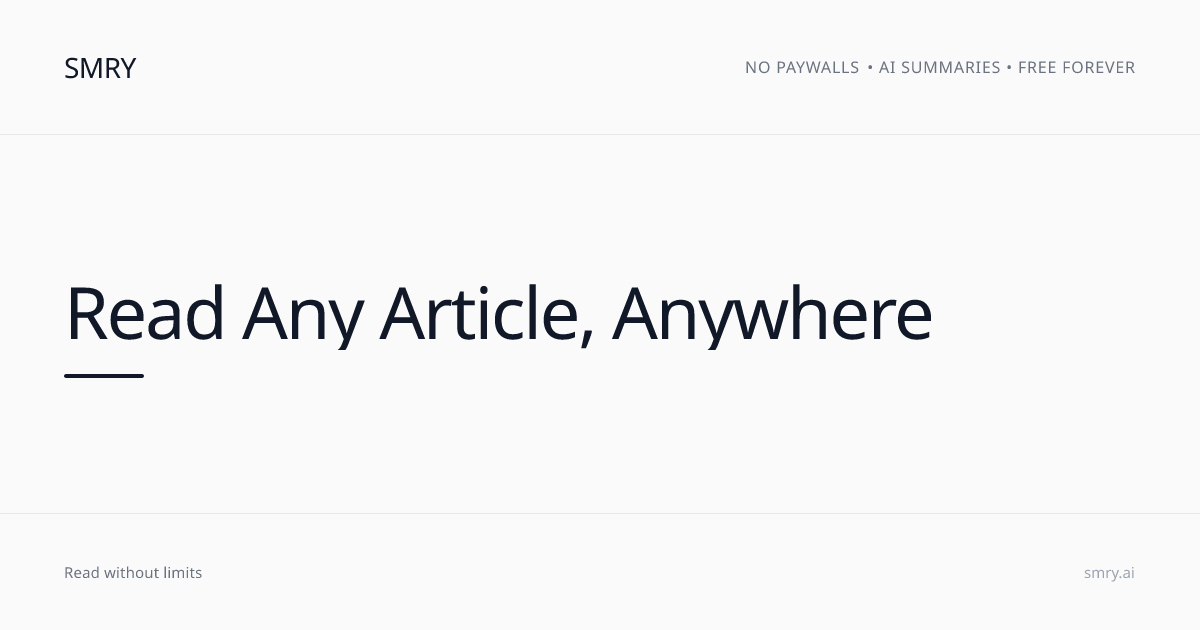
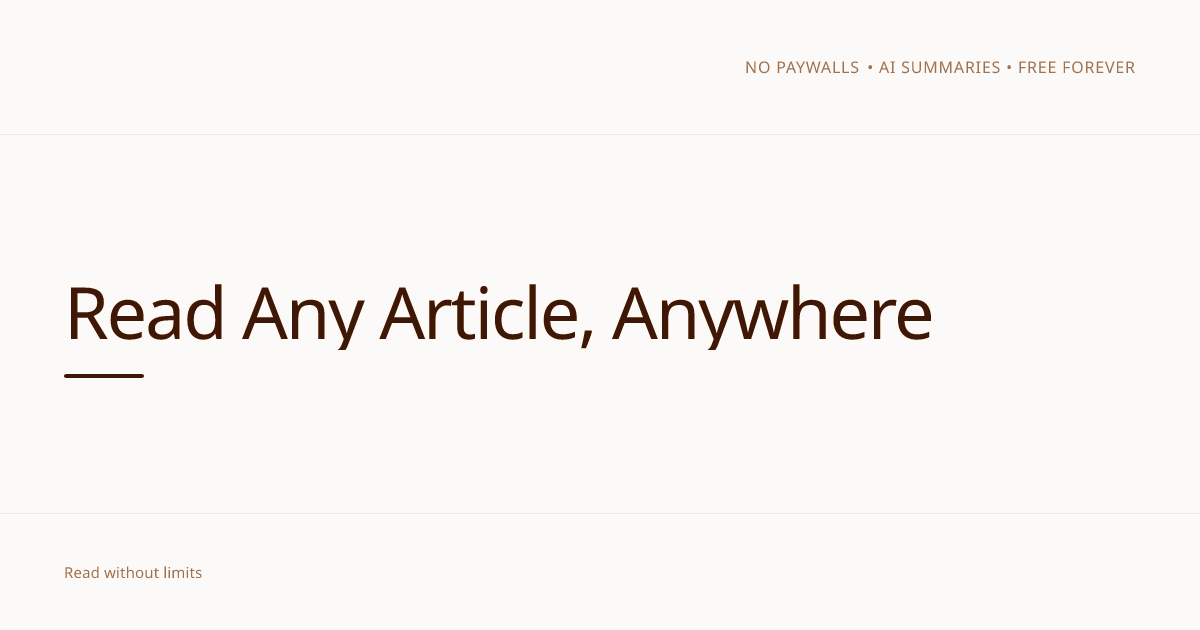
feat: Implement dynamic, locale-aware Open Graph image generation, update metadata to utilize it, and remove old static image assets.

diff --git a/app/api/og/route.tsx b/app/api/og/route.tsx
@@ -1,0 +1,131 @@
+import { ImageResponse } from 'next/og';
+import { NextRequest } from 'next/server';
+
+export const runtime = 'edge';
+
+// Supported locales and their OG titles
+const translations: Record<string, { title: string; tagline: string }> = {
+    en: {
+        title: 'Read Any Article, Anywhere',
+        tagline: 'Read without limits',
+    },
+    pt: {
+        title: 'Leia Qualquer Artigo, Em Qualquer Lugar',
+        tagline: 'Leia sem limites',
+    },
+    de: {
+        title: 'Lesen Sie jeden Artikel, überall',
+        tagline: 'Lesen ohne Grenzen',
+    },
+    es: {
+        title: 'Lee Cualquier Artículo, En Cualquier Lugar',
+        tagline: 'Lee sin límites',
+    },
+    nl: {
+        title: 'Lees Elk Artikel, Overal',
+        tagline: 'Lees zonder grenzen',
+    },
+    zh: {
+        title: '阅读任何文章，随时随地',
+        tagline: '无限阅读',
+    },
+};
+
+export async function GET(request: NextRequest) {
+    const { searchParams } = new URL(request.url);
+    const locale = searchParams.get('locale') || 'en';
+
+    const siteName = process.env.NEXT_PUBLIC_SITE_NAME || 'SMRY';
+    const siteUrl = process.env.NEXT_PUBLIC_URL || 'https://smry.ai';
+    const domain = siteUrl.replace(/^https?:\/\//, '');
+
+    const t = translations[locale] || translations.en;
+
+    return new ImageResponse(
+        (
+            <div
+                style={{
+                    height: '100%',
+                    width: '100%',
+                    display: 'flex',
+                    flexDirection: 'column',
+                    backgroundColor: '#faf9f6',
+                    fontFamily: 'Georgia, serif',
+                }}
+            >
+                {/* Header bar */}
+                <div
+                    style={{
+                        display: 'flex',
+                        justifyContent: 'space-between',
+                        alignItems: 'center',
+                        backgroundColor: '#1a3a2a',
+                        padding: '20px 50px',
+                        color: '#d4c5a9',
+                    }}
+                >
+                    <span style={{ fontSize: 28, fontWeight: 600, letterSpacing: '0.05em' }}>
+                        {siteName}
+                    </span>
+                    <span style={{ fontSize: 16, letterSpacing: '0.15em', textTransform: 'uppercase' }}>
+                        NO PAYWALLS • AI SUMMARIES • FREE FOREVER
+                    </span>
+                </div>
+
+                {/* Main content area */}
+                <div
+                    style={{
+                        display: 'flex',
+                        flexDirection: 'column',
+                        justifyContent: 'center',
+                        alignItems: 'flex-start',
+                        flex: 1,
+                        padding: '60px 80px',
+                    }}
+                >
+                    <h1
+                        style={{
+                            fontSize: 72,
+                            fontWeight: 400,
+                            color: '#1a1a1a',
+                            margin: 0,
+                            lineHeight: 1.1,
+                            maxWidth: '900px',
+                        }}
+                    >
+                        {t.title}
+                    </h1>
+                    <div
+                        style={{
+                            display: 'flex',
+                            width: 80,
+                            height: 4,
+                            backgroundColor: '#1a3a2a',
+                            marginTop: 30,
+                        }}
+                    />
+                </div>
+
+                {/* Footer bar */}
+                <div
+                    style={{
+                        display: 'flex',
+                        justifyContent: 'space-between',
+                        alignItems: 'center',
+                        padding: '20px 50px',
+                        borderTop: '1px solid #e0ddd5',
+                        color: '#666',
+                        fontSize: 18,
+                    }}
+                >
+                    <span>{t.tagline}</span>
+                    <span style={{ color: '#1a3a2a', fontWeight: 500 }}>{domain}</span>
+                </div>
+            </div>
+        ),
+        {
+            width: 1200,
+            height: 630,
+        }
+    );
+}

diff --git a/app/[locale]/layout.tsx b/app/[locale]/layout.tsx
@@ -2,6 +2,8 @@ import { NextIntlClientProvider } from 'next-intl';
 import { getMessages, setRequestLocale } from 'next-intl/server';
 import { notFound } from 'next/navigation';
 import { routing, type Locale } from '@/i18n/routing';
+import { Metadata } from 'next';
+import { siteConfig } from '@/app/config/site';
 
 type Props = {
   children: React.ReactNode;
@@ -10,6 +12,40 @@ type Props = {
 
 export function generateStaticParams() {
   return routing.locales.map((locale) => ({ locale }));
+}
+
+export async function generateMetadata({ params }: Props): Promise<Metadata> {
+  const { locale } = await params;
+
+  // Dynamic import of messages for the locale
+  const messages = (await import(`@/messages/${locale}.json`)).default;
+  const metadata = messages.metadata || {};
+
+  return {
+    title: metadata.title?.replace('Smry', siteConfig.name) || siteConfig.name,
+    description: metadata.description || siteConfig.description,
+    openGraph: {
+      type: 'website',
+      title: metadata.ogTitle?.replace('Smry', siteConfig.name) || siteConfig.name,
+      siteName: siteConfig.name,
+      url: `${siteConfig.url}/${locale}`,
+      description: metadata.ogDescription || siteConfig.description,
+      images: [
+        {
+          url: `${siteConfig.url}/api/og?locale=${locale}`,
+          width: 1200,
+          height: 630,
+          alt: metadata.ogAlt?.replace('Smry', siteConfig.name) || siteConfig.name,
+        },
+      ],
+    },
+    twitter: {
+      card: 'summary_large_image',
+      title: metadata.ogTitle?.replace('Smry', siteConfig.name) || siteConfig.name,
+      description: metadata.twitterDescription || siteConfig.description,
+      images: [`${siteConfig.url}/api/og?locale=${locale}`],
+    },
+  };
 }
 
 export default async function LocaleLayout({ children, params }: Props) {

diff --git a/app/config/site.ts b/app/config/site.ts
@@ -14,7 +14,7 @@ export const siteConfig: SiteConfig = {
   description:
     "Paste any paywalled article link and get the full text plus an AI summary. Free to use, no account, no browser extension.",
   url: process.env.NEXT_PUBLIC_URL || "https://smry.ai",
-  ogImage: `${process.env.NEXT_PUBLIC_URL || "https://smry.ai"}/og-image.png`,
+  ogImage: `${process.env.NEXT_PUBLIC_URL || "https://smry.ai"}/api/og`,
   links: {
     twitter: "https://twitter.com/michael_chomsky",
     github: "https://github.com/bgeneto/free-reader",

diff --git a/app/layout.tsx b/app/layout.tsx
@@ -35,7 +35,7 @@ const sourceSans = Source_Sans_3({
 
 
 export const metadata: Metadata = {
-  title: `Bypass Paywalls & Read Full Articles Free – No Login | ${siteConfig.name}`,
+  title: `Bypass Paywalls & Read Full Articles Free - No Login | ${siteConfig.name}`,
   description:
     siteConfig.description,
   keywords: ["bypass paywall", "paywall remover", "read paywalled articles", "free paywall bypass", "article summarizer", "remove paywall"],
